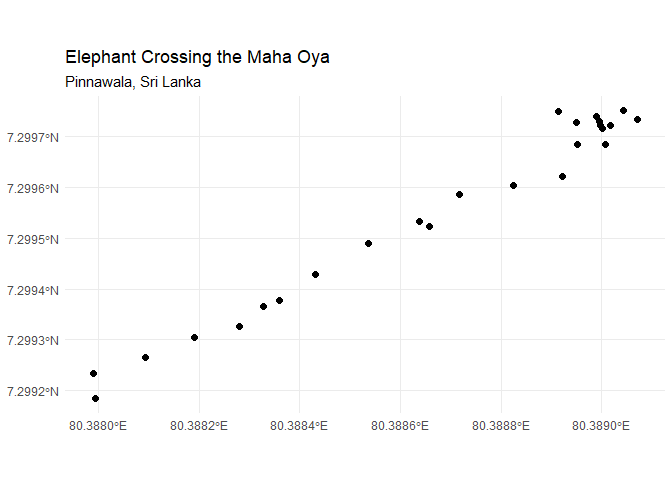
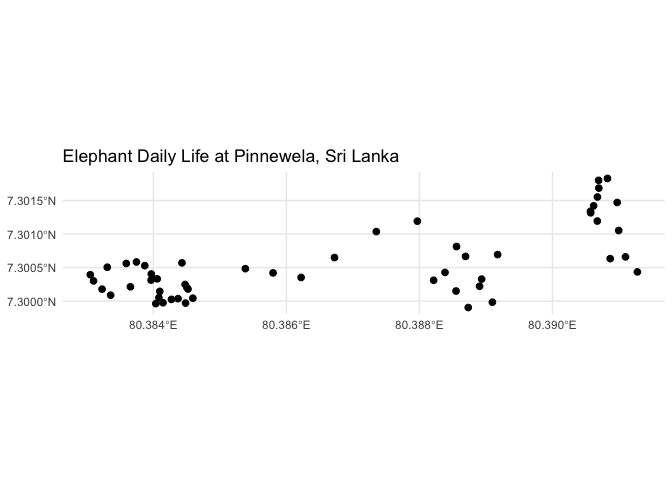
updated

diff --git a/README.md b/README.md
@@ -125,48 +125,68 @@ dplyr::filter(trk, animal_id == "E001")
 #> 4 E001      2022-01-04 08:00:00  80.9  7.98    250 Female
 ```
 
-# Example with toy dataset
+## Build-in dataset
 
 ``` r
-data(elephant_crossing_maha_oya_pinnawala)
+library(lubridate)
+#> 
+#> Attaching package: 'lubridate'
+#> The following objects are masked from 'package:base':
+#> 
+#>     date, intersect, setdiff, union
+data("pinnawala")
+head(pinnawala)
+#> # A tibble: 6 × 4
+#>   time  longitude latitude note                          
+#>   <chr>     <dbl>    <dbl> <chr>                         
+#> 1 08:30      80.4     7.30 Given anchor point            
+#> 2 08:40      80.4     7.30 10-min interval (interpolated)
+#> 3 08:50      80.4     7.30 10-min interval (interpolated)
+#> 4 09:00      80.4     7.30 10-min interval (interpolated)
+#> 5 09:10      80.4     7.30 10-min interval (interpolated)
+#> 6 09:20      80.4     7.30 10-min interval (interpolated)
+pinnawala$animal_id <- rep(1, 53)
+pinnawala$datetime <- ymd_hm(
+  paste("2026-8-23", pinnawala$time),
+  tz = "Asia/Colombo"
+)
+
 trk_elephant <- trackable(
-  data = elephant_crossing_maha_oya_pinnawala,
-  time = date_time,
+  data = pinnawala,
+  time = datetime,
   x = longitude,
   y = latitude,
-  key = c("animal_id", "sex", "age_class"),
+  key = c("animal_id"),
   crs = 4326
 )
 trk_elephant
-#> # A trackable: 25 x 9 [3D]
-#> #> # Key:       animal_id, sex, age_class [1]
-#> # A tibble: 25 × 9
-#>    animal_id date_time           latitude longitude location     sex   age_class
-#>    <chr>     <dttm>                 <dbl>     <dbl> <chr>        <lgl> <chr>    
-#>  1 ELE_001   2026-10-21 10:00:00     7.30      80.4 Maha Oya, P… FALSE Adult    
-#>  2 ELE_001   2026-10-21 10:05:00     7.30      80.4 Maha Oya, P… FALSE Adult    
-#>  3 ELE_001   2026-10-21 10:10:00     7.30      80.4 Maha Oya, P… FALSE Adult    
-#>  4 ELE_001   2026-10-21 10:15:00     7.30      80.4 Maha Oya, P… FALSE Adult    
-#>  5 ELE_001   2026-10-21 10:20:00     7.30      80.4 Maha Oya, P… FALSE Adult    
-#>  6 ELE_001   2026-10-21 10:25:00     7.30      80.4 Maha Oya, P… FALSE Adult    
-#>  7 ELE_001   2026-10-21 10:30:00     7.30      80.4 Maha Oya, P… FALSE Adult    
-#>  8 ELE_001   2026-10-21 10:35:00     7.30      80.4 Maha Oya, P… FALSE Adult    
-#>  9 ELE_001   2026-10-21 10:40:00     7.30      80.4 Maha Oya, P… FALSE Adult    
-#> 10 ELE_001   2026-10-21 10:45:00     7.30      80.4 Maha Oya, P… FALSE Adult    
-#> # ℹ 15 more rows
-#> # ℹ 2 more variables: movement_phase <chr>, distance_m <dbl>
+#> # A trackable: 53 x 6 [9.5D]
+#> #> # Key:       animal_id [1]
+#> # A tibble: 53 × 6
+#>    time  longitude latitude note                   animal_id datetime           
+#>    <chr>     <dbl>    <dbl> <chr>                      <dbl> <dttm>             
+#>  1 08:30      80.4     7.30 Given anchor point             1 2026-08-23 08:30:00
+#>  2 08:40      80.4     7.30 10-min interval (inte…         1 2026-08-23 08:40:00
+#>  3 08:50      80.4     7.30 10-min interval (inte…         1 2026-08-23 08:50:00
+#>  4 09:00      80.4     7.30 10-min interval (inte…         1 2026-08-23 09:00:00
+#>  5 09:10      80.4     7.30 10-min interval (inte…         1 2026-08-23 09:10:00
+#>  6 09:20      80.4     7.30 10-min interval (inte…         1 2026-08-23 09:20:00
+#>  7 09:30      80.4     7.30 10-min interval (inte…         1 2026-08-23 09:30:00
+#>  8 09:40      80.4     7.30 10-min interval (inte…         1 2026-08-23 09:40:00
+#>  9 09:50      80.4     7.30 10-min interval (inte…         1 2026-08-23 09:50:00
+#> 10 10:00      80.4     7.30 Given anchor point             1 2026-08-23 10:00:00
+#> # ℹ 43 more rows
 ```
 
 ``` r
 library(ggplot2)
 library(sf)
-#> Linking to GEOS 3.14.1, GDAL 3.12.1, PROJ 9.7.1; sf_use_s2() is TRUE
+#> Linking to GEOS 3.13.0, GDAL 3.8.5, PROJ 9.5.1; sf_use_s2() is TRUE
 ggplot() +
   geom_sf(data = trk_elephant, aes(), size = 2) +
   theme_minimal() +
   labs(
-    title = "Elephant Crossing the Maha Oya",
-    subtitle = "Pinnawala, Sri Lanka",
+    title = "Elephant Daily Life at Pinnewela, Sri Lanka",
     x = NULL,
     y = NULL
   )
@@ -179,19 +199,29 @@ ggplot() +
 library(ggplot2)
 library(sf)
 library(ggspatial)
+#> Warning: package 'ggspatial' was built under R version 4.6.1
 library(prettymapr)
+
+library(sf)
+library(dplyr)
+#> 
+#> Attaching package: 'dplyr'
+#> The following objects are masked from 'package:stats':
+#> 
+#>     filter, lag
+#> The following objects are masked from 'package:base':
+#> 
+#>     intersect, setdiff, setequal, union
+library(ggplot2)
+library(ggspatial)
+
 
 ggplot() +
   annotation_map_tile(type = "osm", zoom = 16) +
-  geom_sf(
-    data = trk_elephant,
-    size = 2,
-    colour = "red"
-  ) +
+  geom_sf(data = trk_elephant, size = 2, colour = "red") +  
   theme_minimal() +
   labs(
-    title = "Elephant Crossing the Maha Oya",
-    subtitle = "Pinnawala, Sri Lanka",
+    title = "Elephant Daily Life at Pinnewela, Sri Lanka",
     x = NULL,
     y = NULL
   )
@@ -201,32 +231,31 @@ ggplot() +
 <img src="man/figures/README-unnamed-chunk-5-1.png" alt="" width="100%" />
 
 ``` r
-movement_metrics(trk_elephant,
-    id = "animal_id",
-    time = "date_time",
-    lon = "longitude",
-    lat = "latitude")
-#> Simple feature collection with 25 features and 16 fields
-#> Geometry type: POINT
-#> Dimension:     XY
-#> Bounding box:  xmin: 80.38799 ymin: 7.299185 xmax: 80.38907 ymax: 7.299751
-#> Geodetic CRS:  WGS 84
-#> # A tibble: 25 × 17
-#>    animal_id date_time           latitude longitude location     sex   age_class
-#>    <chr>     <dttm>                 <dbl>     <dbl> <chr>        <lgl> <chr>    
-#>  1 ELE_001   2026-10-21 10:00:00     7.30      80.4 Maha Oya, P… FALSE Adult    
-#>  2 ELE_001   2026-10-21 10:05:00     7.30      80.4 Maha Oya, P… FALSE Adult    
-#>  3 ELE_001   2026-10-21 10:10:00     7.30      80.4 Maha Oya, P… FALSE Adult    
-#>  4 ELE_001   2026-10-21 10:15:00     7.30      80.4 Maha Oya, P… FALSE Adult    
-#>  5 ELE_001   2026-10-21 10:20:00     7.30      80.4 Maha Oya, P… FALSE Adult    
-#>  6 ELE_001   2026-10-21 10:25:00     7.30      80.4 Maha Oya, P… FALSE Adult    
-#>  7 ELE_001   2026-10-21 10:30:00     7.30      80.4 Maha Oya, P… FALSE Adult    
-#>  8 ELE_001   2026-10-21 10:35:00     7.30      80.4 Maha Oya, P… FALSE Adult    
-#>  9 ELE_001   2026-10-21 10:40:00     7.30      80.4 Maha Oya, P… FALSE Adult    
-#> 10 ELE_001   2026-10-21 10:45:00     7.30      80.4 Maha Oya, P… FALSE Adult    
-#> # ℹ 15 more rows
-#> # ℹ 10 more variables: movement_phase <chr>, distance_m <dbl>,
-#> #   geometry <POINT [°]>, elapsed_time_s <dbl>, step_distance_m <dbl>,
-#> #   speed_m_s <dbl>, bearing_deg <dbl>, turn_angle_deg <dbl>,
-#> #   cumulative_distance_m <dbl>, displacement_m <dbl>
+library(sf)
+library(dplyr)
+
+# 1. plain tibble first (drops the track class), sorted by time
+trk_pts <- trk_elephant |>
+  as_tibble() |>
+  arrange(datetime)
+
+# 2. make points (skip this step if it already has a geometry column)
+trk_pts <- st_as_sf(trk_pts, coords = c("longitude", "latitude"), crs = 4326)
+
+# 3. join the points, in order, into one line
+trk_line <- trk_pts |>
+  summarise(do_union = FALSE) |>
+  st_cast("LINESTRING")
 ```
+
+``` r
+ggplot() +
+  annotation_map_tile(type = "osm", zoom = 16) +
+  geom_sf(data = trk_line, colour = "red", linewidth = 0.8) +
+  geom_sf(data = trk_pts, size = 2, colour = "red") +
+  theme_minimal() +
+  labs(title = "Elephant Daily Life at Pinnewela, Sri Lanka", x = NULL, y = NULL)
+#> Zoom: 16
+```
+
+<img src="man/figures/README-unnamed-chunk-7-1.png" alt="" width="100%" />
